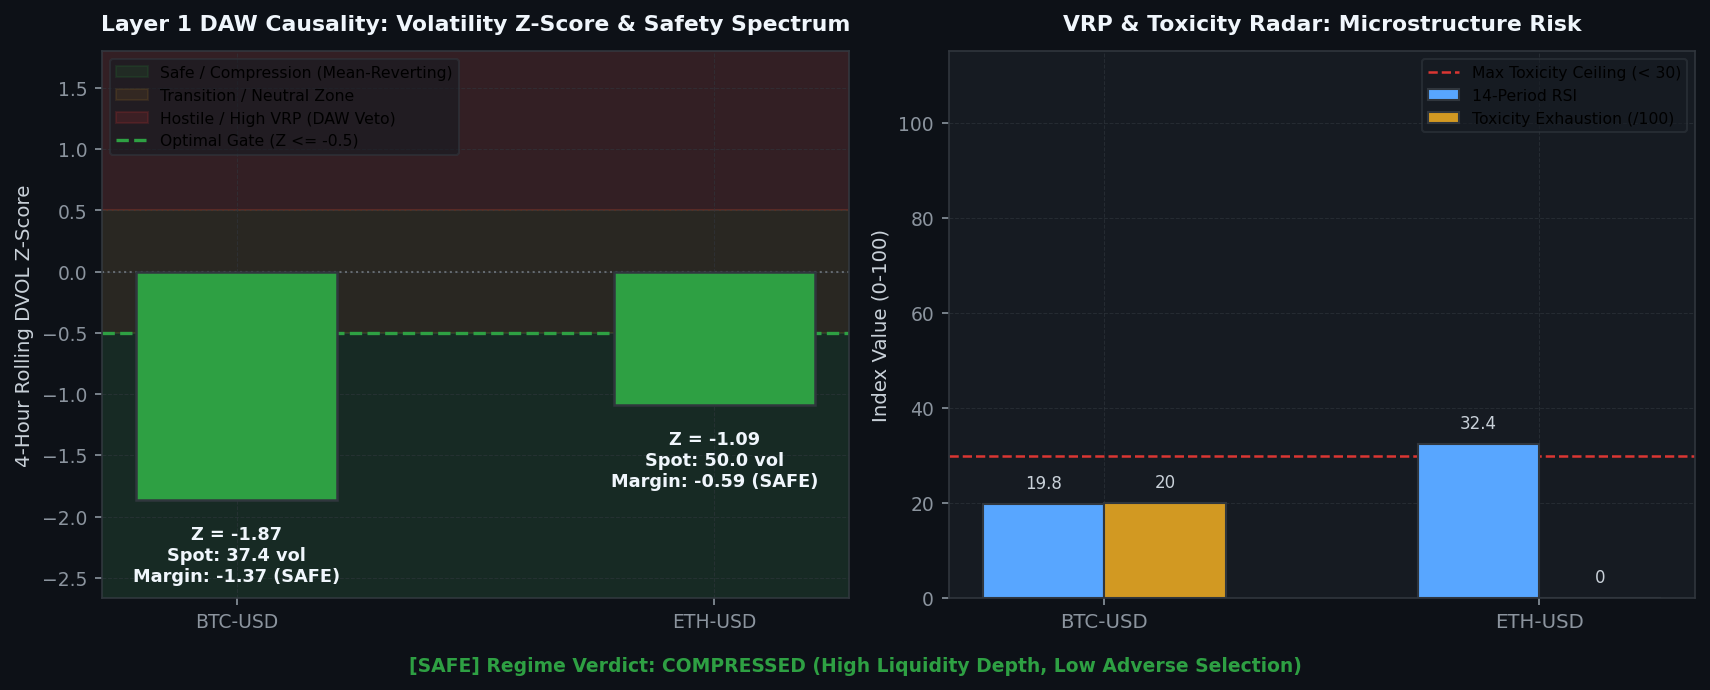
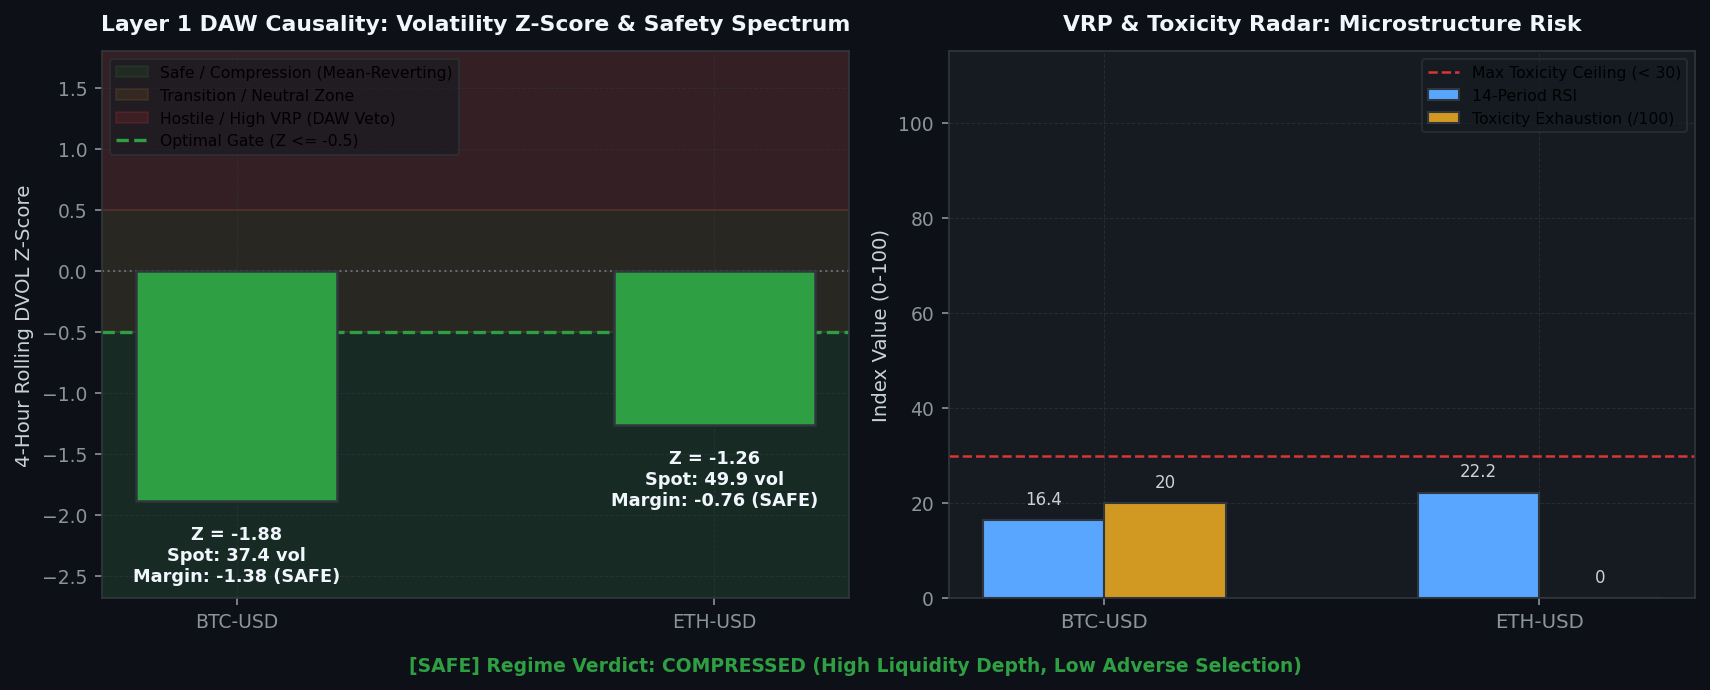
[coinbase] Hourly Status & Visual Intelligence Update: 2026-08-29 02:01:28

diff --git a/coinbase/data/hourly_status_report.md b/coinbase/data/hourly_status_report.md
@@ -3,7 +3,7 @@ layout: default
 ---
 
 # 🛡 Unified Trading System Hourly Status & Visual Intelligence
-> **Report Generated**: `2026-08-29 02:00:10 AM PDT (2026-08-29 09:00:10 UTC)`  
+> **Report Generated**: `2026-08-29 02:01:11 AM PDT (2026-08-29 09:01:11 UTC)`  
 > **System Health**: **🟡 DEGRADED / RESTRICTED** | **Win Rate**: `0.0%` | **Completed Trades**: `0`
 
 
@@ -15,13 +15,13 @@ Real-time Deribit implied volatility (DVOL) proxy tracking against mathematicall
 
 | Symbol | Proxy Oracle | Live Z-Score | Optimal Limit (YSP) | Safety Margin | Live VRP | Optimal VRP (YSP) | DAW Safety Verdict |
 | :--- | :--- | :--- | :--- | :--- | :--- | :--- | :--- |
-| `AVAX-USD` | DVOL_BTC | **-1.87** | **-0.50** | **-1.37** | **N/A** | 5.0 | 🟢 SAFE |
-| `ETH-USD` | DVOL_ETH | **-1.03** | **-0.50** | **-0.53** | **+15.21** | 5.0 | 🔴 DAW VETOED |
-| `ADA-USD` | DVOL_BTC | **-1.87** | **-0.50** | **-1.37** | **N/A** | 5.0 | 🟢 SAFE |
-| `DOGE-USD` | DVOL_BTC | **-1.87** | **-0.50** | **-1.37** | **N/A** | 5.0 | 🟢 SAFE |
-| `BTC-USD` | DVOL_BTC | **-1.87** | **-0.50** | **-1.37** | **N/A** | 5.0 | 🟢 SAFE |
-| `LINK-USD` | DVOL_BTC | **-1.87** | **-0.50** | **-1.37** | **+0.31** | 5.0 | 🟢 SAFE |
-| `SOL-USD` | DVOL_BTC | **-1.87** | **-0.50** | **-1.37** | **+1.43** | 5.0 | 🟢 SAFE |
+| `AVAX-USD` | DVOL_BTC | **-1.89** | **-0.50** | **-1.39** | **N/A** | 5.0 | 🟢 SAFE |
+| `ETH-USD` | DVOL_ETH | **-1.20** | **-0.50** | **-0.70** | **+15.21** | 5.0 | 🔴 DAW VETOED |
+| `ADA-USD` | DVOL_BTC | **-1.89** | **-0.50** | **-1.39** | **N/A** | 5.0 | 🟢 SAFE |
+| `DOGE-USD` | DVOL_BTC | **-1.89** | **-0.50** | **-1.39** | **N/A** | 5.0 | 🟢 SAFE |
+| `BTC-USD` | DVOL_BTC | **-1.89** | **-0.50** | **-1.39** | **N/A** | 5.0 | 🟢 SAFE |
+| `LINK-USD` | DVOL_BTC | **-1.89** | **-0.50** | **-1.39** | **+0.31** | 5.0 | 🟢 SAFE |
+| `SOL-USD` | DVOL_BTC | **-1.89** | **-0.50** | **-1.39** | **+1.43** | 5.0 | 🟢 SAFE |
 
 
 
@@ -37,16 +37,16 @@ We hereby certify that the mission-critical algorithmic data assets uploaded by 
 
 | Status | Data Asset | Freshness / State | Details / Timestamp |
 | :---: | :--- | :--- | :--- |
-| ✅ | **Go-List JSON** | Fresh (1.98h old) | 08-29 00:01 |
-| ✅ | **TimesFM Forecasts** | Fresh (1.97h old) | 08-29 00:02 |
+| ✅ | **Go-List JSON** | Fresh (1.99h old) | 08-29 00:01 |
+| ✅ | **TimesFM Forecasts** | Fresh (1.99h old) | 08-29 00:02 |
 | ❌ | **Holding Times config** | STALE! (185.0h old) | Limit 127.0h |
-| ✅ | **BTC DVOL Cache** | Fresh (0.00h old) | 08-29 02:00 |
-| ✅ | **ETH DVOL Cache** | Fresh (0.00h old) | 08-29 02:00 |
+| ✅ | **BTC DVOL Cache** | Fresh (0.00h old) | 08-29 02:01 |
+| ✅ | **ETH DVOL Cache** | Fresh (0.01h old) | 08-29 02:01 |
 | ❌ | **Live Trading Telemetry** | STALE! (1.7h old) | Limit 0.1h |
 
 <br>
 
-> **Utilization Certification**: ✅ **CERTIFIED.** The Guardian Watchdog is ONLINE and EC2 traders are actively querying the freshest MLOps data artifacts (Found 354 recent read events).
+> **Utilization Certification**: ✅ **CERTIFIED.** The Guardian Watchdog is ONLINE and EC2 traders are actively querying the freshest MLOps data artifacts (Found 353 recent read events).
 
 
 ---
@@ -86,9 +86,9 @@ Live balance sheet and open maker liquidity positions from Coinbase CDP.
 | Product | Side | Limit Price | Order ID |
 | :--- | :--- | :--- | :--- |
 | `ACH-USD` | SELL | 0.005507 | `a0d2e243-42b4-4df5-bd23-118f45998df8` |
+| `SOL-USD` | SELL | 104.15 | `9fafa961-46d0-4117-b653-4036e0451453` |
 | `USDT-USDC` | SELL | 1.0001 | `66cab2eb-254c-4f1b-b5b6-1251e98e9290` |
 | `USDT-USDC` | SELL | 1.0001 | `b697dc68-9e4c-47f8-b03f-079cc7e80d03` |
-| `SOL-USD` | SELL | 104.15 | `9fafa961-46d0-4117-b653-4036e0451453` |
 | `ADA-USD` | SELL | 0.20324 | `d5465c97-f5aa-4806-a399-06c46dd6f5ca` |
 | `AVAX-USD` | SELL | 7.314 | `f07dcfb5-bf62-4a48-b4f8-37eb2b2296f7` |
 | `DOGE-USD` | SELL | 0.08514 | `791cbcb0-a6ee-467e-929f-843b52117ed4` |
@@ -102,12 +102,12 @@ Weekly Algorithmic Mega Cap selection, Zero-shot multi-step forward return forec
 
 - **TimesFM Forecast DB**: 🟢 Updated 2.0h ago (2026-08-29 12:02 AM PDT)
 - **Last Weekly VSTEF Optimization**: `2026-08-05 09:22:38 AM PDT`
-- **Next Scheduled VSTEF Run**: `2026-08-30 07:00:00 PM PDT (Monday 02:00 UTC)` (Countdown: **41.0h (1d 16h 59m)**)
+- **Next Scheduled VSTEF Run**: `2026-08-30 07:00:00 PM PDT (Monday 02:00 UTC)` (Countdown: **41.0h (1d 16h 58m)**)
 - **Promoted Parameter Gates**: $Z_{DVOL} \le -0.5$ | Holding Horizon $= 12\text{h}$
 
 ### Algorithmic Mega Cap Selection
 - **Last Run (Confirmation)**: `2026-08-29 12:01:39 AM PDT`
-- **Next Scheduled Run**: `2026-08-30 06:00:00 PM PDT (Monday 01:00 UTC)` (Countdown: **40.0h (1d 15h 59m)**)
+- **Next Scheduled Run**: `2026-08-30 06:00:00 PM PDT (Monday 01:00 UTC)` (Countdown: **40.0h (1d 15h 58m)**)
 - **Selected Mega Cap Universe**: `BTC, BCH, AVAX, ETH, ALGO, ADA, LTC, DOGE, AAVE, LINK, DOT, HBAR`
 
 
@@ -121,20 +121,20 @@ Visualizing the impact of the VSTEF (Volatility-Synchronized Stop-Tightening Exe
 ## 5. 🖥 Multi-Node Infrastructure & Watchdog Matrix
 ```text
 ================================================================================
-   🛡  SFGK FUNNEL GUARDIAN WATCHDOG (HFT ONLY) |  09:00:09 AM
-   CPU:   4.2%  |  MEM:   5.4% (14.6GB / 15.4GB Free)
+   🛡  SFGK FUNNEL GUARDIAN WATCHDOG (HFT ONLY) |  09:01:11 AM
+   CPU:   3.7%  |  MEM:   5.8% (14.5GB / 15.4GB Free)
 ================================================================================
 SERVICE              | PID      | STATUS          | RESTARTS | INFO
 --------------------------------------------------------------------------------
 L3 Consumer          | 3691814  | RUNNING         | -        | Continuous Websocket Feed
 MAO Daemon           | 3691992  | RUNNING         | -        | Oracle Yield Analysis
 U/U Farmer           | 3691994  | RUNNING         | -        | Volume Farmer
-Trader AVAX-USD      | 3742160  | COOL-DOWN       | 109      | Next run in 24.8s
-Trader ETH-USD       | 3742161  | COOL-DOWN       | 109      | Next run in 24.8s
-Trader ADA-USD       | 3742162  | COOL-DOWN       | 109      | Next run in 24.8s
-Trader DOGE-USD      | 3742163  | COOL-DOWN       | 109      | Next run in 24.8s
-Trader BTC-USD       | 3742164  | COOL-DOWN       | 109      | Next run in 24.8s
-Trader LINK-USD      | 3742165  | COOL-DOWN       | 109      | Next run in 24.8s
+Trader AVAX-USD      | 3743481  | COOL-DOWN       | 111      | Next run in 0.0s
+Trader ETH-USD       | 3743482  | COOL-DOWN       | 111      | Next run in 0.0s
+Trader ADA-USD       | 3743483  | COOL-DOWN       | 111      | Next run in 0.0s
+Trader DOGE-USD      | 3743484  | COOL-DOWN       | 111      | Next run in 0.0s
+Trader BTC-USD       | 3743485  | COOL-DOWN       | 111      | Next run in 0.0s
+Trader LINK-USD      | 3743486  | COOL-DOWN       | 111      | Next run in 0.0s
 ```
 
 ---

diff --git a/coinbase/data/visual_intelligence.md b/coinbase/data/visual_intelligence.md
@@ -4,7 +4,7 @@ title: Visual Intelligence Gallery
 ---
 
 # 📈 Visual Intelligence Gallery
-> **Generated:** `2026-08-29 02:00:27`
+> **Generated:** `2026-08-29 02:01:28`
 > **[Return to Main Status Report](./hourly_status_report.md)**
 
 This page visualizes the internal states, market profiles, and decision criteria of the active **3-Tier Fused Decision Engine** across all layers.
